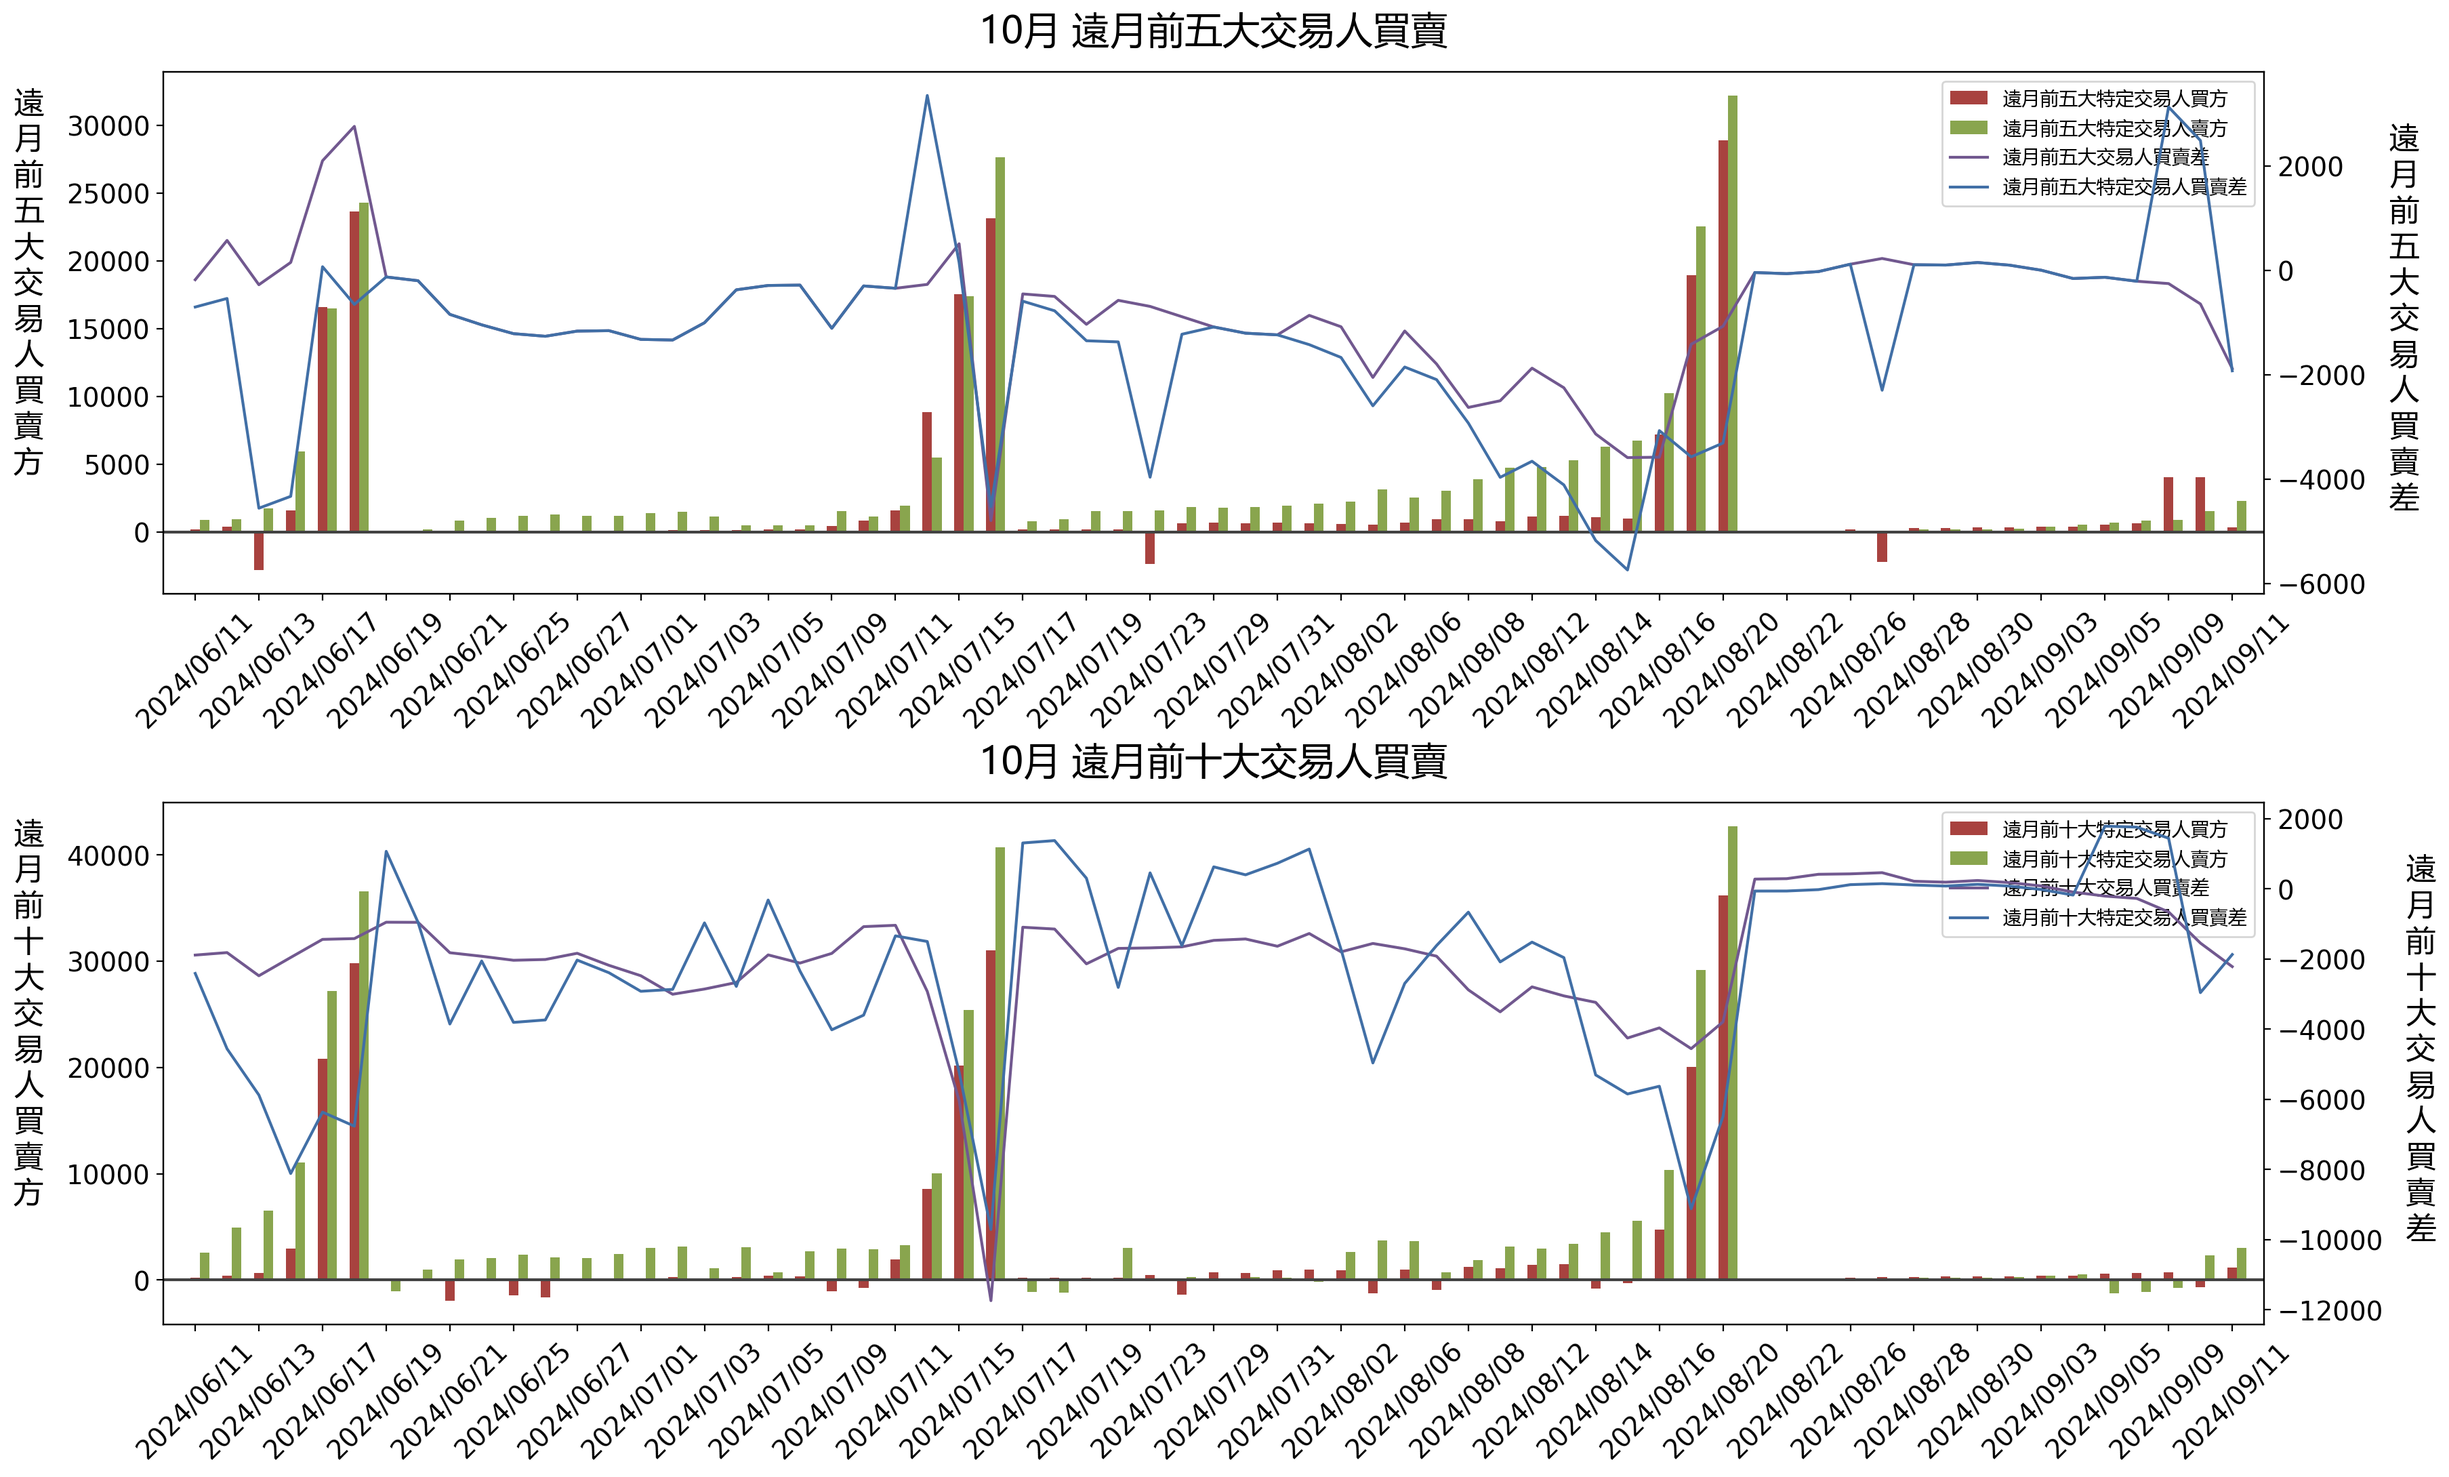
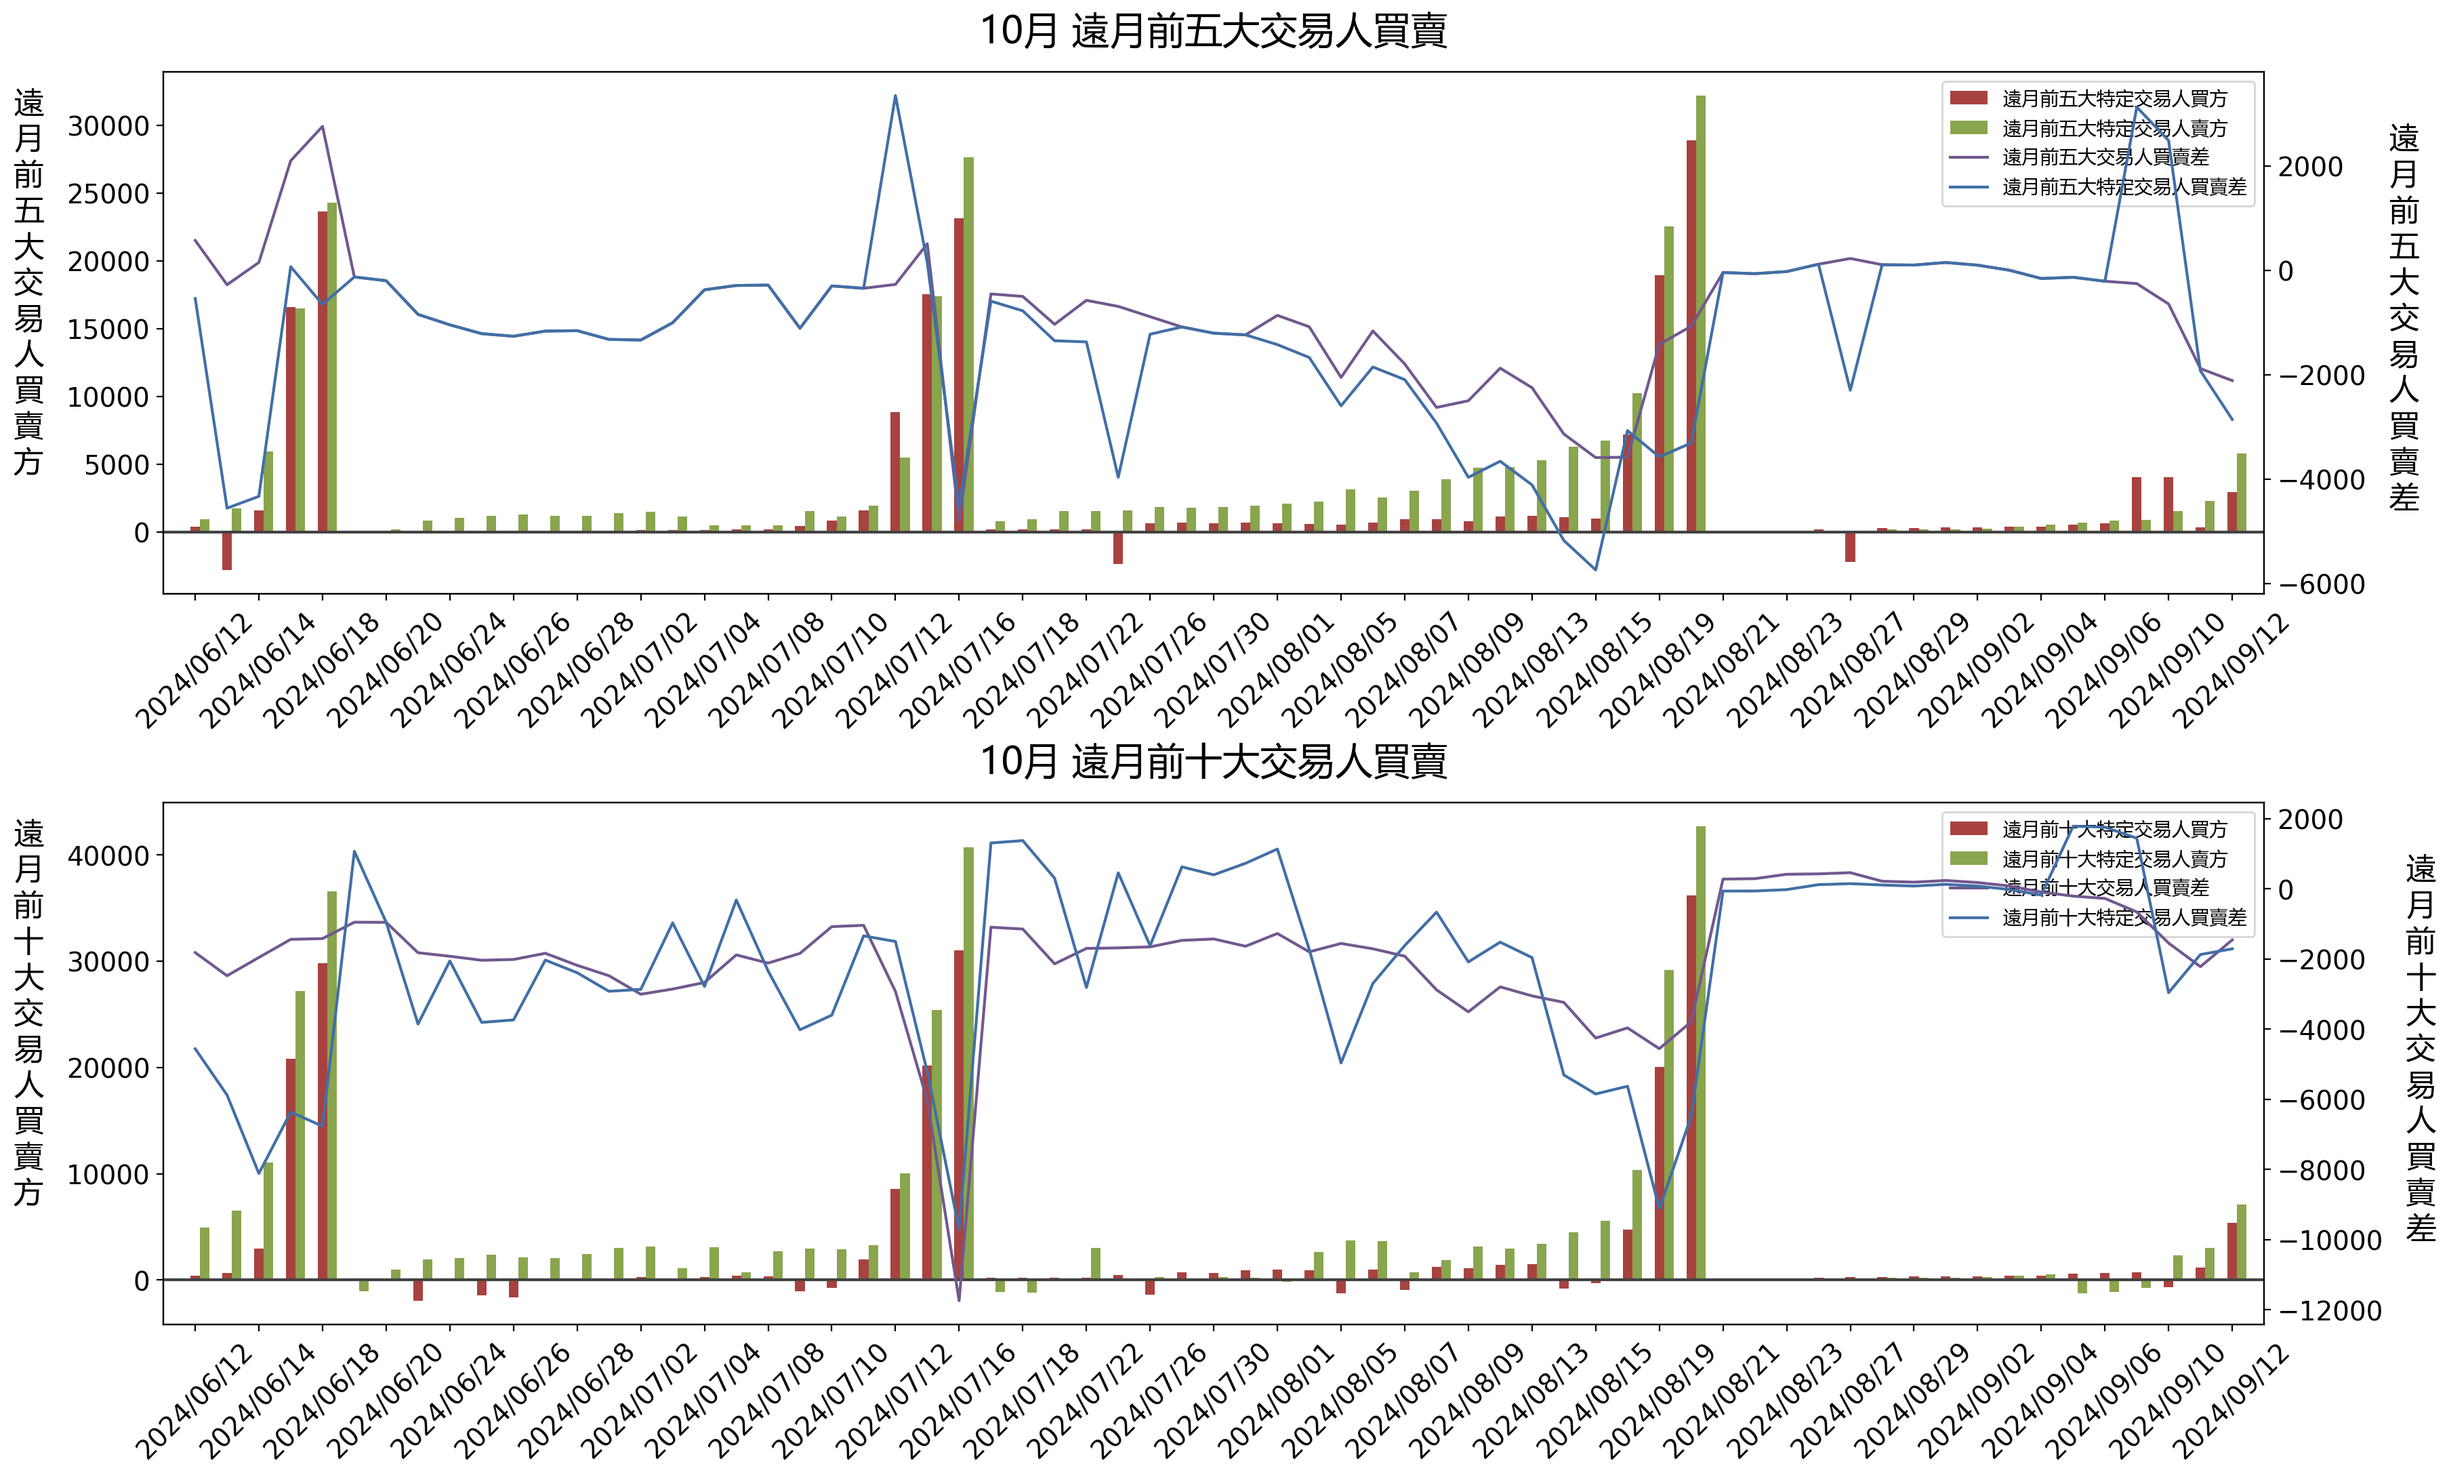
更新時間: Thu Sep 12 16:34:14 CST 2024

diff --git a/README.md b/README.md
@@ -1,12 +1,12 @@
-## 20240911 台指期「預估換倉成本」
+## 20240912 台指期「預估換倉成本」
 ![](images/txfcost.png)
 
-## 20240911 台指期「散戶小台多空比」
+## 20240912 台指期「散戶小台多空比」
 ![](images/bbiri.png)
 
-## 20240911 台指選擇權「Put/Call Ratios」
+## 20240912 台指選擇權「Put/Call Ratios」
 ![](images/pcratio.png)
 
-## 20240911 台指期「大額交易人」
+## 20240912 台指期「大額交易人」
 ![](images/blocktrade.png)
 
